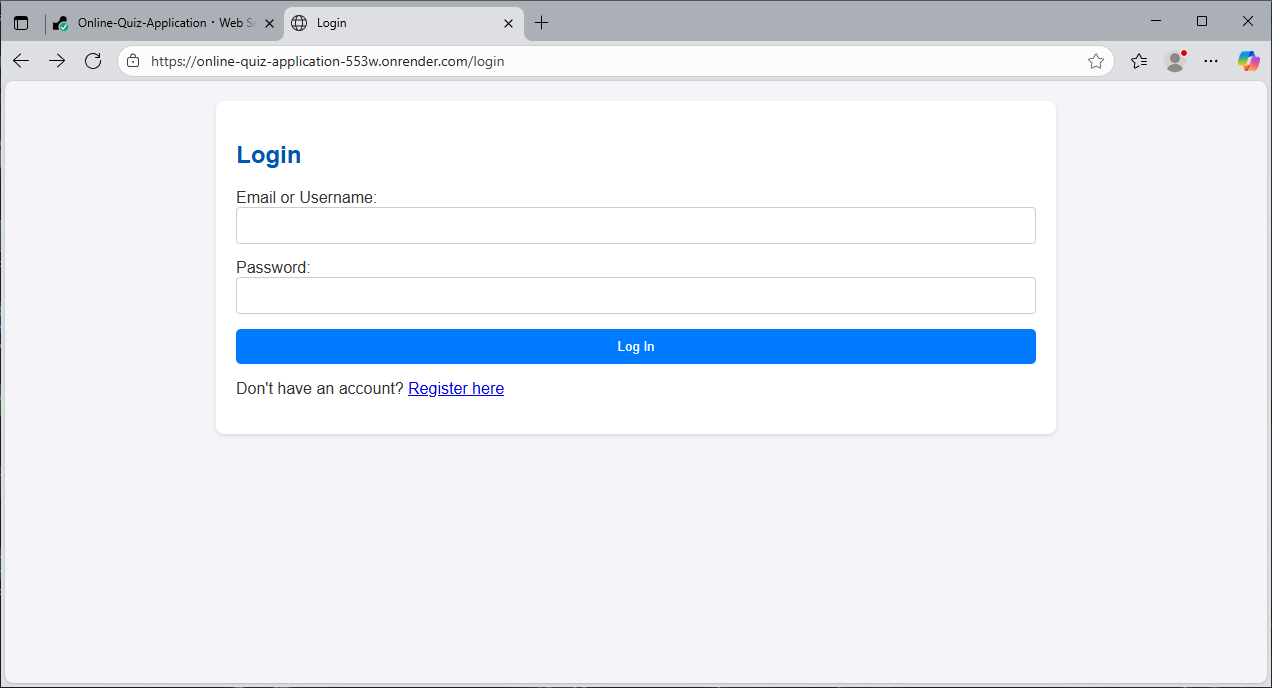
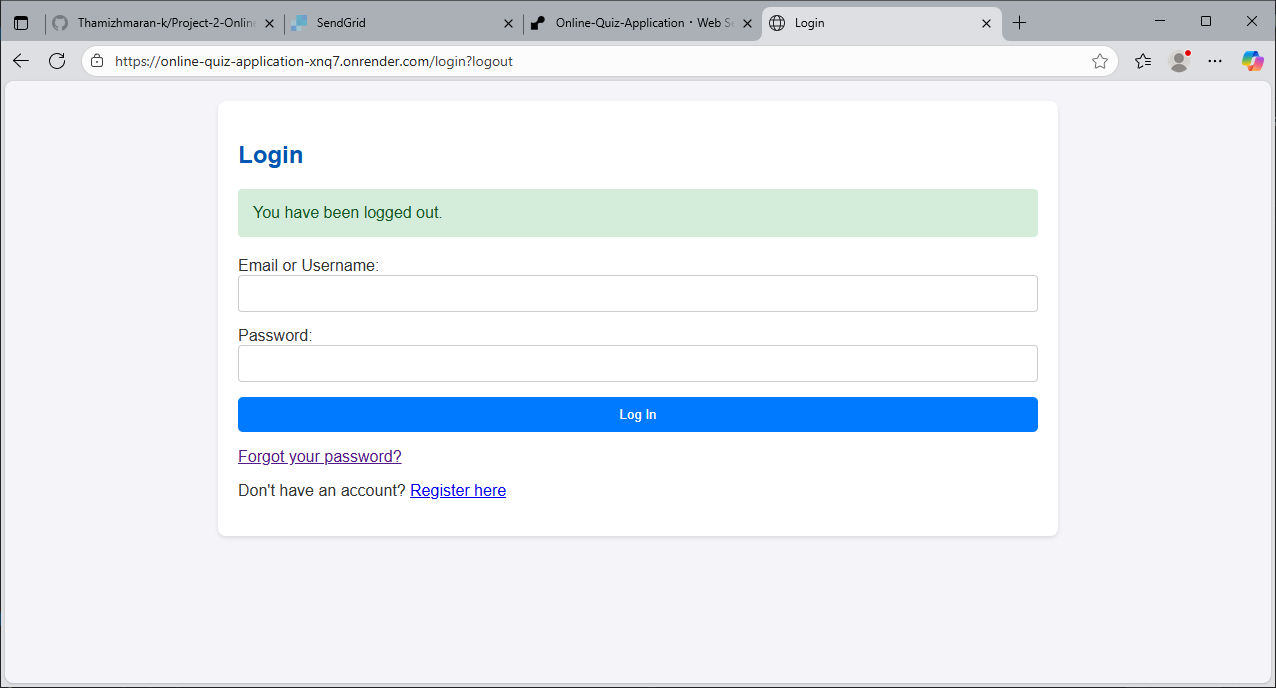
Added files

diff --git a/src/main/java/com/example/online_quiz_app/controller/AuthController.java b/src/main/java/com/example/online_quiz_app/controller/AuthController.java
@@ -2,17 +2,17 @@ package com.example.online_quiz_app.controller;
 
 import com.example.online_quiz_app.dto.UserDto;
 import com.example.online_quiz_app.model.User;
-import com.example.online_quiz_app.service.EmailService; // Required import
+import com.example.online_quiz_app.service.EmailService;
 import com.example.online_quiz_app.service.UserService;
 import jakarta.validation.Valid;
 import org.springframework.beans.factory.annotation.Autowired; // Optional but good practice
 import org.springframework.security.core.Authentication;
-// import org.springframework.security.core.GrantedAuthority; // Removed as unused
+import org.springframework.security.core.GrantedAuthority; // Required for dashboard logic
 import org.springframework.stereotype.Controller;
 import org.springframework.ui.Model;
 import org.springframework.validation.BindingResult;
 import org.springframework.web.bind.annotation.*;
-import org.springframework.web.servlet.mvc.support.RedirectAttributes; // Required import
+import org.springframework.web.servlet.mvc.support.RedirectAttributes; // Required for flash messages
 
 @Controller
 public class AuthController {
@@ -34,8 +34,8 @@ public class AuthController {
 
     @GetMapping("/login")
     public String login(Model model) {
-        // Add a link variable for the template
-        model.addAttribute("forgotPasswordUrl", "/forgot-password"); 
+        // Add a link variable for the template to use
+        model.addAttribute("forgotPasswordUrl", "/forgot-password");
         return "login";
     }
 
@@ -48,10 +48,12 @@ public class AuthController {
     @PostMapping("/register/save")
     public String registration(@Valid @ModelAttribute("user") UserDto userDto,
                                BindingResult result, Model model) {
+        // Check if username exists
         User existingUserByUsername = userService.findByUsername(userDto.getUsername());
         if (existingUserByUsername != null && existingUserByUsername.getUsername() != null && !existingUserByUsername.getUsername().isEmpty()) {
             result.rejectValue("username", null, "There is already an account registered with that username");
         }
+        // Check if email exists
         User existingUserByEmail = userService.findByEmail(userDto.getEmail());
         if (existingUserByEmail != null && existingUserByEmail.getEmail() != null && !existingUserByEmail.getEmail().isEmpty()) {
             result.rejectValue("email", null, "There is already an account registered with that email");
@@ -59,24 +61,35 @@ public class AuthController {
 
         if (result.hasErrors()) {
             model.addAttribute("user", userDto);
-            return "register";
+            return "register"; // Return to registration form if errors
         }
 
         userService.saveUser(userDto);
-        return "redirect:/register?success";
+        return "redirect:/register?success"; // Redirect on successful registration
     }
 
+    // Corrected dashboard redirect logic
     @GetMapping("/dashboard")
     public String userDashboard(Authentication authentication) {
-        // Logic remains the same...
-        return "redirect:/quiz/list"; // Default redirect
+        // Check if the user has the ROLE_ADMIN authority
+        boolean isAdmin = authentication.getAuthorities().stream()
+                .map(GrantedAuthority::getAuthority)
+                .anyMatch(role -> role.equals("ROLE_ADMIN"));
+
+        if (isAdmin) {
+            // If admin, redirect to admin dashboard
+            return "redirect:/admin/dashboard";
+        } else {
+            // Otherwise, redirect to participant quiz list
+            return "redirect:/quiz/list";
+        }
     }
 
     // --- Password Reset Endpoints ---
 
     @GetMapping("/forgot-password")
     public String showForgotPasswordForm() {
-        return "forgot-password";
+        return "forgot-password"; // Renders forgot-password.html
     }
 
     @PostMapping("/forgot-password")
@@ -86,36 +99,43 @@ public class AuthController {
         if (user != null) {
             String token = userService.createPasswordResetTokenForUser(user);
             try {
+                 // Attempt to send the email
                  emailService.sendPasswordResetEmail(user.getEmail(), token);
-                 redirectAttributes.addFlashAttribute("message", "Check your email for a password reset link.");
+                 // Show success message regardless of whether email was found, for security
+                 redirectAttributes.addFlashAttribute("message", "If an account with that email exists, a password reset link has been sent.");
             } catch (Exception e) {
+                 // Log the error server-side
                  System.err.println("Failed to send password reset email for " + userEmail + ": " + e.getMessage());
-                 redirectAttributes.addFlashAttribute("error", "Could not send reset email. Please try again later.");
+                 // Show a generic error to the user
+                 redirectAttributes.addFlashAttribute("error", "Could not send reset email at this time. Please try again later.");
             }
         } else {
-            // Show a generic message even if email not found for security
-            redirectAttributes.addFlashAttribute("message", "If an account with that email exists, a reset link has been sent.");
+            // Show the same generic message even if email not found, for security
+            redirectAttributes.addFlashAttribute("message", "If an account with that email exists, a password reset link has been sent.");
         }
-        return "redirect:/forgot-password";
+        return "redirect:/forgot-password"; // Redirect back to the form
     }
 
     @GetMapping("/reset-password")
     public String showResetPasswordForm(@RequestParam(value = "token", required = false) String token,
                                         Model model,
                                         RedirectAttributes redirectAttributes) {
+        // Check if token is provided in the URL
         if (token == null || token.isEmpty()) {
-             redirectAttributes.addFlashAttribute("error", "Password reset token is missing.");
-             return "redirect:/login";
+             redirectAttributes.addFlashAttribute("error", "Password reset token is missing from the link.");
+             return "redirect:/login"; // Redirect if no token
         }
-        
+
+        // Validate the token (checks existence and expiry)
         User user = userService.findByPasswordResetToken(token);
         if (user == null) {
-            redirectAttributes.addFlashAttribute("error", "Invalid or expired password reset token.");
-            return "redirect:/login";
+            redirectAttributes.addFlashAttribute("error", "Invalid or expired password reset token. Please request a new one.");
+            return "redirect:/login"; // Redirect if token is bad
         }
-        
-        model.addAttribute("token", token); // Pass token to the view
-        return "reset-password";
+
+        // Token is valid, show the form and pass the token to it
+        model.addAttribute("token", token);
+        return "reset-password"; // Renders reset-password.html
     }
 
     @PostMapping("/reset-password")
@@ -123,26 +143,32 @@ public class AuthController {
                                        @RequestParam("password") String password,
                                        @RequestParam("confirmPassword") String confirmPassword,
                                        RedirectAttributes redirectAttributes) {
+        // Re-validate the token on submission
         User user = userService.findByPasswordResetToken(token);
         if (user == null) {
             redirectAttributes.addFlashAttribute("error", "Invalid or expired password reset token.");
             return "redirect:/login";
         }
 
+        // Basic password validation
         if (password == null || password.length() < 6) {
              redirectAttributes.addFlashAttribute("error", "Password must be at least 6 characters long.");
-             redirectAttributes.addAttribute("token", token); // Pass token back via query param
+             // Pass token back to the form using query parameter on redirect
+             redirectAttributes.addAttribute("token", token);
              return "redirect:/reset-password";
         }
 
         if (!password.equals(confirmPassword)) {
             redirectAttributes.addFlashAttribute("error", "Passwords do not match.");
-            redirectAttributes.addAttribute("token", token); // Pass token back via query param
+            // Pass token back to the form using query parameter on redirect
+            redirectAttributes.addAttribute("token", token);
             return "redirect:/reset-password";
         }
 
+        // If all checks pass, change the password
         userService.changeUserPassword(user, password);
         redirectAttributes.addFlashAttribute("message", "Your password has been reset successfully. Please log in.");
-        return "redirect:/login";
+        return "redirect:/login"; // Redirect to login page on success
     }
 }
+
